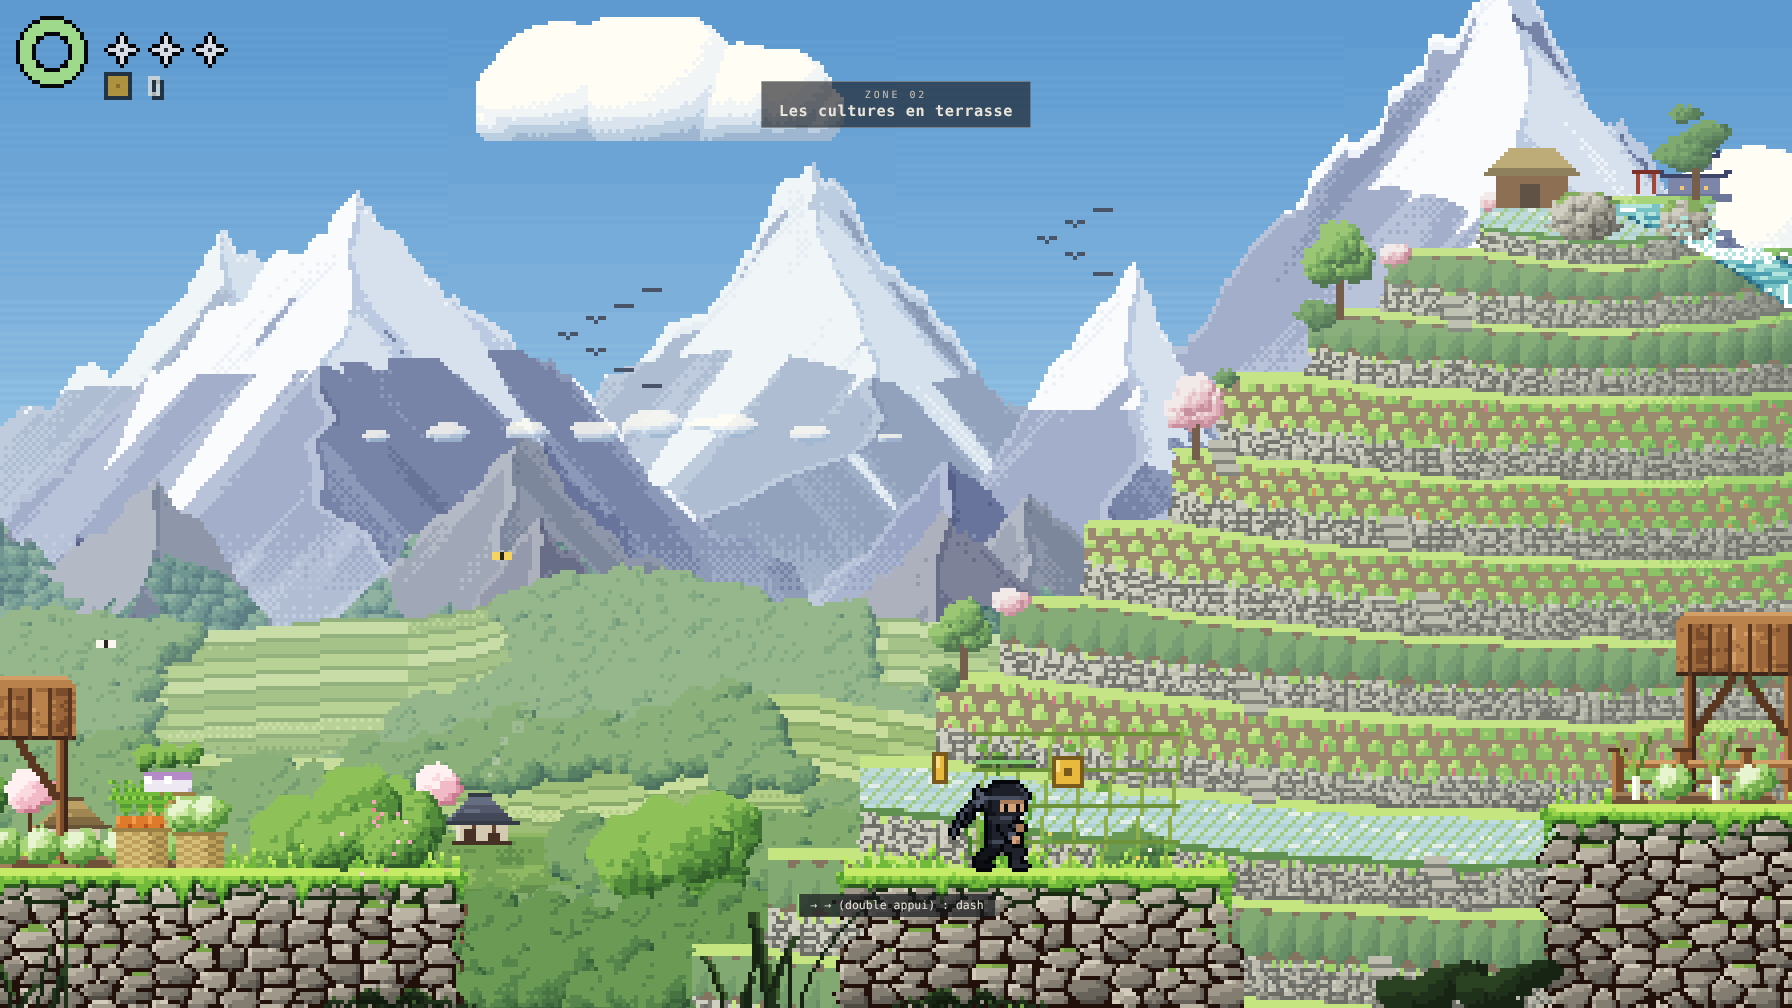
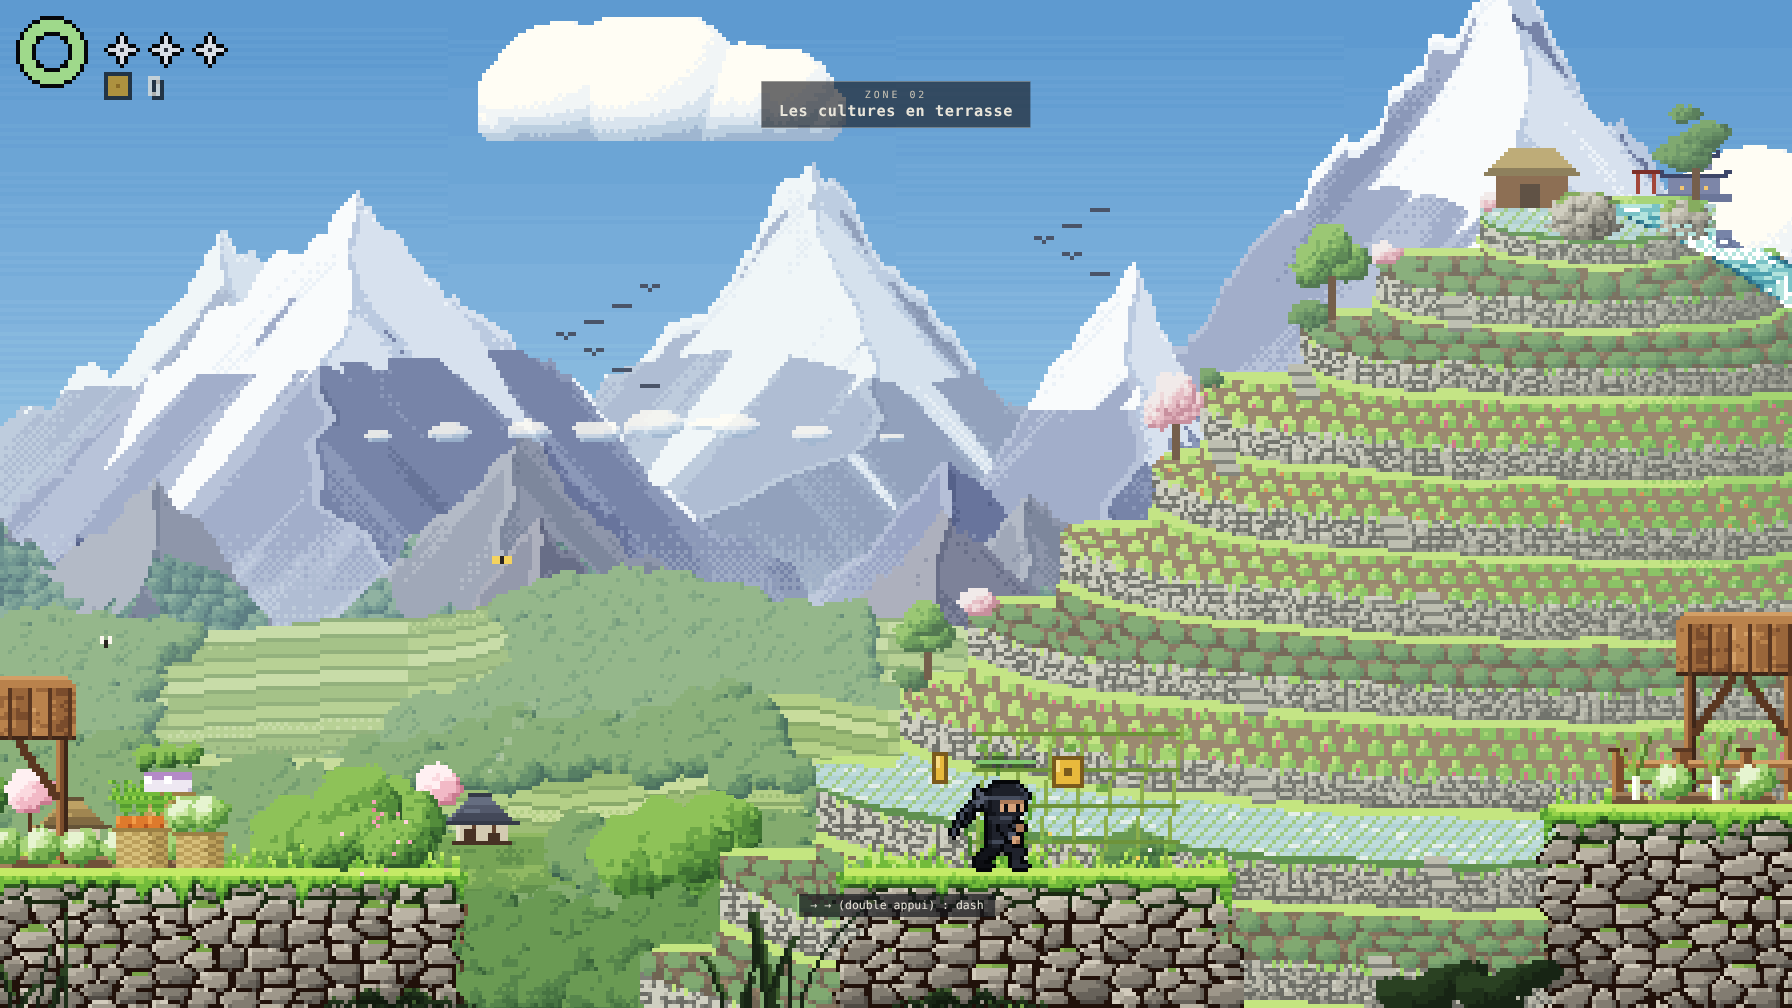
Potager : gradins de la colline aux bouts arrondis et légèrement courbés, débord un peu plus large dans le fossé, théiers retravaillés
Claude-Session: https://claude.ai/code/session_01A2iwx5JQh5N28DfQfmMHLt

diff --git a/src/game/potager/props.js b/src/game/potager/props.js
@@ -150,7 +150,7 @@ export function hillGeom(p) {
   const incL = [], incR = [];
   for (let k = 0; y < base + 30; k++) {
     const D = Math.round(7 + k * 0.55 + r() * 2), wall = Math.round(5 + k * 0.4 + r() * 2);
-    tiers.push({ y, D, wall, sag: 3 + k * 1.5, kind: r(), seed: k });
+    tiers.push({ y, D, wall, sag: 3 + k * 1.5, curl: Math.min(D - 4, 3 + k * 0.35), kind: r(), seed: k });
     incL.push(16 + Math.round(r() * 24));                         // chaque gradin dépasse le précédent,
     incR.push(14 + Math.round(r() * 24));                         // d'une longueur inégale
     y += D + wall;
@@ -166,10 +166,16 @@ export function hillGeom(p) {
   const WL = fit(incL, 34, mx - x0 - 8), WR = fit(incR, 26, x1 - mx - 8);
   tiers.forEach((t, k) => { t.wl = WL[k]; t.wr = WR[k]; });
   const wob = (yy, k, side) => (noise1(yy * 0.35 + k * 7.3 + side * 50, 61) - 0.5) * 3;
-  const covers = (t, dx, yy, k) => (dx < 0 ? -dx < t.wl + wob(yy, k, 0) : dx < t.wr + wob(yy, k, 1));
+  // bout de gradin arrondi : le coin haut du replat s'arrondit (rayon R)
+  const R = 5;
+  const round = (t, yy) => { const d = yy - t.y; return d >= R ? 0 : R - Math.sqrt(Math.max(0, R * R - (R - d) * (R - d))); };
+  const covers = (t, dx, yy, k) => (dx < 0 ? -dx < t.wl + wob(yy, k, 0) - round(t, yy) : dx < t.wr + wob(yy, k, 1) - round(t, yy));
+  // bord avant du replat : il plonge au milieu (plus près de nous) et, au bout,
+  // remonte en douceur, comme s'il contournait la colline
   const lip = (t, dx) => {
     const u = Math.min(1, Math.abs(dx) / (dx < 0 ? t.wl : t.wr));
-    return t.y + t.D + t.sag * (1 - u * u) + (noise1((mx + dx) * 0.06, t.seed + 3) - 0.5) * 1.6;
+    const v = Math.max(0, (u - 0.8) / 0.2);
+    return t.y + t.D + t.sag * (1 - u * u) - t.curl * v * v + (noise1((mx + dx) * 0.06, t.seed + 3) - 0.5) * 1.6;
   };
   /** Ce qu'il y a au point (x, y) : null (ciel), ou { tier, part: 'top' | 'wall', f }. */
   const band = (x, yy) => {
@@ -179,7 +185,7 @@ export function hillGeom(p) {
     let start = tiers[k].y;
     for (let j = k; j < tiers.length; j++) {
       const t = tiers[j], L = lip(t, dx), B = L + t.wall;
-      if (yy < L) return { tier: j, t, part: 'top', f: (yy - start) / Math.max(1, L - start), edge: j === k };
+      if (yy < L) return { tier: j, t, part: 'top', f: (yy - start) / Math.max(1, L - start), h: L - start, edge: j === k };
       if (yy < B) return { tier: j, t, part: 'wall', f: (yy - L) / t.wall };
       start = B;
     }
@@ -556,8 +562,15 @@ const PAINT = {
             if ((x + y) % 4 === 0 && f < 0.88) col = '#93c46a';
             if (side < -0.15 && col !== '#93c46a') col = mixHex(col, '#7fa4ae', 0.3);
           } else {                                                                   // théiers taillés en boules
-            const bx = ((x + q.tier * 7) % 7) - 3, by = f * 7 - 4;
-            col = bx * bx * 0.5 + by * by < 9 ? pick(C.HEDGE, clamp01(0.6 + side - bx * 0.08 - by * 0.1), x, y) : C.SOIL[2];
+            // rangs de buissons (un rang par ~6 px de profondeur), décalés d'un rang à
+            // l'autre, chaque buisson un peu différent ; ombre portée sur la terre
+            const rows = Math.max(1, Math.round((q.h ?? 8) / 6)), ff = (f - 0.16) / 0.84;
+            const row = Math.min(rows - 1, Math.floor(ff * rows)), ry = ff * rows - row;
+            const cx = x + q.tier * 7 + row * 4, cell = Math.floor(cx / 8), bx = (cx % 8) - 3.5;
+            const rad = 2.9 + ih(cell, row, q.tier + 30) * 1.1, by = (ry - 0.5) * 6.5;
+            const d = (bx * bx) / (rad * rad) + (by * by) / 10;
+            if (d < 1) col = pick(C.HEDGE, clamp01(0.62 + side - bx * 0.06 - by * 0.09 + (d < 0.3 ? 0.08 : 0)), x, y);
+            else col = by > 0 && Math.abs(bx) < rad + 1 ? C.SOIL[1] : C.SOIL[2 + (ih(x, y, 31) < 0.2 ? 1 : 0)];
           }
         }
         b.p(x, y, veil(col, y));

diff --git a/src/game/chapters/potager.js b/src/game/chapters/potager.js
@@ -164,7 +164,7 @@ function build() {
   // ZONE 02 — Les cultures en terrasse : sauter, puis le dash
   // -------------------------------------------------------------------------
   b.zone('02', 'Les cultures en terrasse');
-  b.prop('terraces_bg', b.x + 23, G, { w: 37, mx: b.x + 41, spout: b.x + 46, peak: 72, lip: 125 });   // la colline en terrasses, derrière
+  b.prop('terraces_bg', b.x + 22, G, { w: 38, mx: b.x + 41, spout: b.x + 46, peak: 72, lip: 125 });   // la colline en terrasses, derrière
   b.gap(3, 'ditch');                                 // fossé peu profond
   x = b.x; b.flat(5);
   b.prop('daikon_rack', x + 2, G, { w: 3 });

diff --git a/docs/REPRISE.md b/docs/REPRISE.md
@@ -161,7 +161,7 @@ Demande de l'utilisateur : un Potager « riche et paisible », au niveau des jeu
 - Mesure : course avec sauts dans la zone 1, 0 recadrage vertical ; dans les terrasses de la zone 2, 2. GIF : `docs/potager/camera_paliers.gif`.
 - **Fond en parallaxe** (`potager/backdrop.js`), du plus loin au plus proche : ciel tramé et grands cumulus en relief ; la **grande chaîne enneigée** (trois rangs de sommets qui se chevauchent, arêtes, ravines, neige qui descend dans les couloirs, brume au pied), dominée par le **Mont Kagero**, sur l'épaule duquel on devine le **dojo final** et son sentier en lacets (« le début d'une grande aventure ») ; vols d'oiseaux ; mer de nuages ; **montagnes moyennes** boisées avec **aiguilles à falaises**, pins accrochés et cascades ; contreforts boisés, champs, temple et torii ; **village** (maisons au toit de chaume, pagode à cinq étages, cerisiers, fumées qui montent) ; lisière (grands arbres, cerisiers, bambous) ; **rizières en terrasses** qui apparaissent à l'approche de la sortie ; **premier plan sombre** (herbes, fougères, grandes feuilles) qui défile plus vite que le jeu.
 - **Terrain** (`potager/tiles.js`) : d'après des références fournies par l'utilisateur. **Terre** : de la terre meuble (grain fin, peu contrasté, quelques gravillons) mêlée au hasard de **grosses mottes** (environ une cellule sur trois, cellules de Voronoï de 8,5 px, contour doux, arête claire en haut à gauche) ; brun un peu sec, moins chaud qu'avant mais plus chaud que la pierre, peu de nuances pour ne pas fatiguer l'œil ; flancs de terre **légèrement ondulés** (±1,5 px, jamais de coupe droite). **Murets de pierre sèche** : grosses pierres grises aux joints sombres, mousse, et silhouette qui suit les pierres (elles dépassent ou se creusent de 1 à 4 px). **Limite muret / terre** naturelle (`materialOf`) : chaque pierre tire un petit décalage au hasard, les dernières pierres s'enfoncent dans la terre, de la terre remonte entre elles, et quelques pierres à demi enterrées parsèment la terre sous le muret. Collisions inchangées (`earthPixel`, `stonePixel`, `paintOverhangs`) ; **tapis d'herbe épais** avec coulures en pointe, brins en touffes, herbe qui déborde des angles et coule sur les flancs ; brun chaud et orangé ; murets de pierre sèche moussus pour les terrasses ; pierre taillée pour les marches du jardin ; racines enchevêtrées sous la serre ; poutres de la grange ; étagère de bocaux ; grosse branche dans le verger ; bambou ligaturé ; bosquet de bambous ; berges de pierre et eau des canaux.
-- **Décors** (`potager/props.js`, placés dans `chapters/potager.js`) : ferme au toit de chaume et tas de bois, panneau d'entrée, Jizō, épouvantails en vieux kimono, légumes feuillus (carottes, radis, navets, choux, poireaux), clôture de bambou, puits, charrette, séchoir à radis, paniers, **colline en terrasses** (zone 2, `terraces_bg` et `hillGeom`) construite **gradin par gradin** : chaque gradin a sa largeur tirée au hasard (différente à gauche et à droite), d'où une silhouette en escalier irrégulier (replat, mur, replat…) ; dessus vu un peu d'en haut, en arc (rangs de légumes, rizière inondée ou théiers), mur de pierre en façade, flanc droit dans l'ombre ; touffes aux angles, arbres sur les replats, pin et abri de paille au sommet, escalier en lacets ; **le ruisseau naît au sommet** entre des rochers moussus et, presque aussi large que la cascade, descend en nappe sur chaque replat et en chute d'écume sur chaque mur (éclaboussures animées), puis franchit **un gros rocher naturel** (fissuré, moussu) d'où tombe la grande cascade, dense au départ. La colline est **au loin** : elle est peinte à part (`World.drawHills`), son eau est dessinée par-dessus (`Live.drawHill`), puis le terrain du premier plan : la cascade passe derrière les plateformes de bois, leurs poteaux, la rambarde et la terrasse (demande de l'utilisateur, pour la profondeur). Les ryō de la cache restent visibles devant elle. Les gradins du bas débordent **légèrement à gauche du bloc de pierre** et se voient dans le fossé (le dash) : la colline passe derrière le bloc au lieu d'avoir l'air posée dessus (demande de l'utilisateur). Puis : moulin à eau, roseaux et iris, lanternes de pierre, arbres fruitiers tortueux et voûte de branches du verger, échelle, serre (toiles déchirées, arceaux, lianes, étagères de graines, plantes suspendues, outils, treillis), grange (grand toit de chaume, mur de planches, contrefiches, outils suspendus, toiles d'araignée, meules, sacs), sanctuaire et torii, renards de pierre, pin taillé, azalées, bosquets, pas japonais, banc, pont rouge rompu, grande porte, échoppe du marchand (ombrelle rouge, auvent indigo, enseigne, marchandises), poteau indicateur. Plus des décors automatiques : buissons, fougères, roseaux et pousses de bambou derrière le chemin, poteaux sous les plateformes de bois, fleurs sauvages.
+- **Décors** (`potager/props.js`, placés dans `chapters/potager.js`) : ferme au toit de chaume et tas de bois, panneau d'entrée, Jizō, épouvantails en vieux kimono, légumes feuillus (carottes, radis, navets, choux, poireaux), clôture de bambou, puits, charrette, séchoir à radis, paniers, **colline en terrasses** (zone 2, `terraces_bg` et `hillGeom`) construite **gradin par gradin** : chaque gradin a sa largeur tirée au hasard (différente à gauche et à droite), d'où une silhouette en escalier irrégulier (replat, mur, replat…) ; dessus vu un peu d'en haut, en arc (rangs de légumes, rizière inondée ou théiers), mur de pierre en façade, flanc droit dans l'ombre ; touffes aux angles, arbres sur les replats, pin et abri de paille au sommet, escalier en lacets ; **le ruisseau naît au sommet** entre des rochers moussus et, presque aussi large que la cascade, descend en nappe sur chaque replat et en chute d'écume sur chaque mur (éclaboussures animées), puis franchit **un gros rocher naturel** (fissuré, moussu) d'où tombe la grande cascade, dense au départ. La colline est **au loin** : elle est peinte à part (`World.drawHills`), son eau est dessinée par-dessus (`Live.drawHill`), puis le terrain du premier plan : la cascade passe derrière les plateformes de bois, leurs poteaux, la rambarde et la terrasse (demande de l'utilisateur, pour la profondeur). Les ryō de la cache restent visibles devant elle. Chaque bout de gradin est **arrondi**, et le bord avant du replat remonte doucement à ses extrémités, comme s'il contournait la colline ; les théiers sont plantés en rangs de buissons inégaux, avec leur ombre sur la terre. Les gradins du bas débordent **légèrement à gauche du bloc de pierre** et se voient dans le fossé (le dash) : la colline passe derrière le bloc au lieu d'avoir l'air posée dessus (demande de l'utilisateur). Puis : moulin à eau, roseaux et iris, lanternes de pierre, arbres fruitiers tortueux et voûte de branches du verger, échelle, serre (toiles déchirées, arceaux, lianes, étagères de graines, plantes suspendues, outils, treillis), grange (grand toit de chaume, mur de planches, contrefiches, outils suspendus, toiles d'araignée, meules, sacs), sanctuaire et torii, renards de pierre, pin taillé, azalées, bosquets, pas japonais, banc, pont rouge rompu, grande porte, échoppe du marchand (ombrelle rouge, auvent indigo, enseigne, marchandises), poteau indicateur. Plus des décors automatiques : buissons, fougères, roseaux et pousses de bambou derrière le chemin, poteaux sous les plateformes de bois, fleurs sauvages.
 - **Ce qui bouge** (`potager/live.js`) : roue à eau (derrière la berge, elle plonge dans le canal), eau du bief, cascade et écume, reflets et nénuphars, poissons qui sautent, tonneaux qui flottent, **kappa pêcheur** qui plonge quand KAGE approche, koïs, fumées, pluie sur la serre et gouttes qui tombent par les déchirures, rais de lumière, pénombre de la grange avec halos de lanternes et poussières, lanternes et clochette de l'échoppe, papillons, pétales, feuilles, libellules, poussières dorées. Les lanternes de sauvegarde sont des lanternes de papier sur poteau.
 - **Performances** : tout est peint une fois (~0,8 s au chargement), le terrain par tranches de 512 px peintes à la demande ; 60 images/s.
 - Planche des 8 zones : `docs/potager/potager_zones.png` ; course : `docs/potager/potager_course.gif`.
